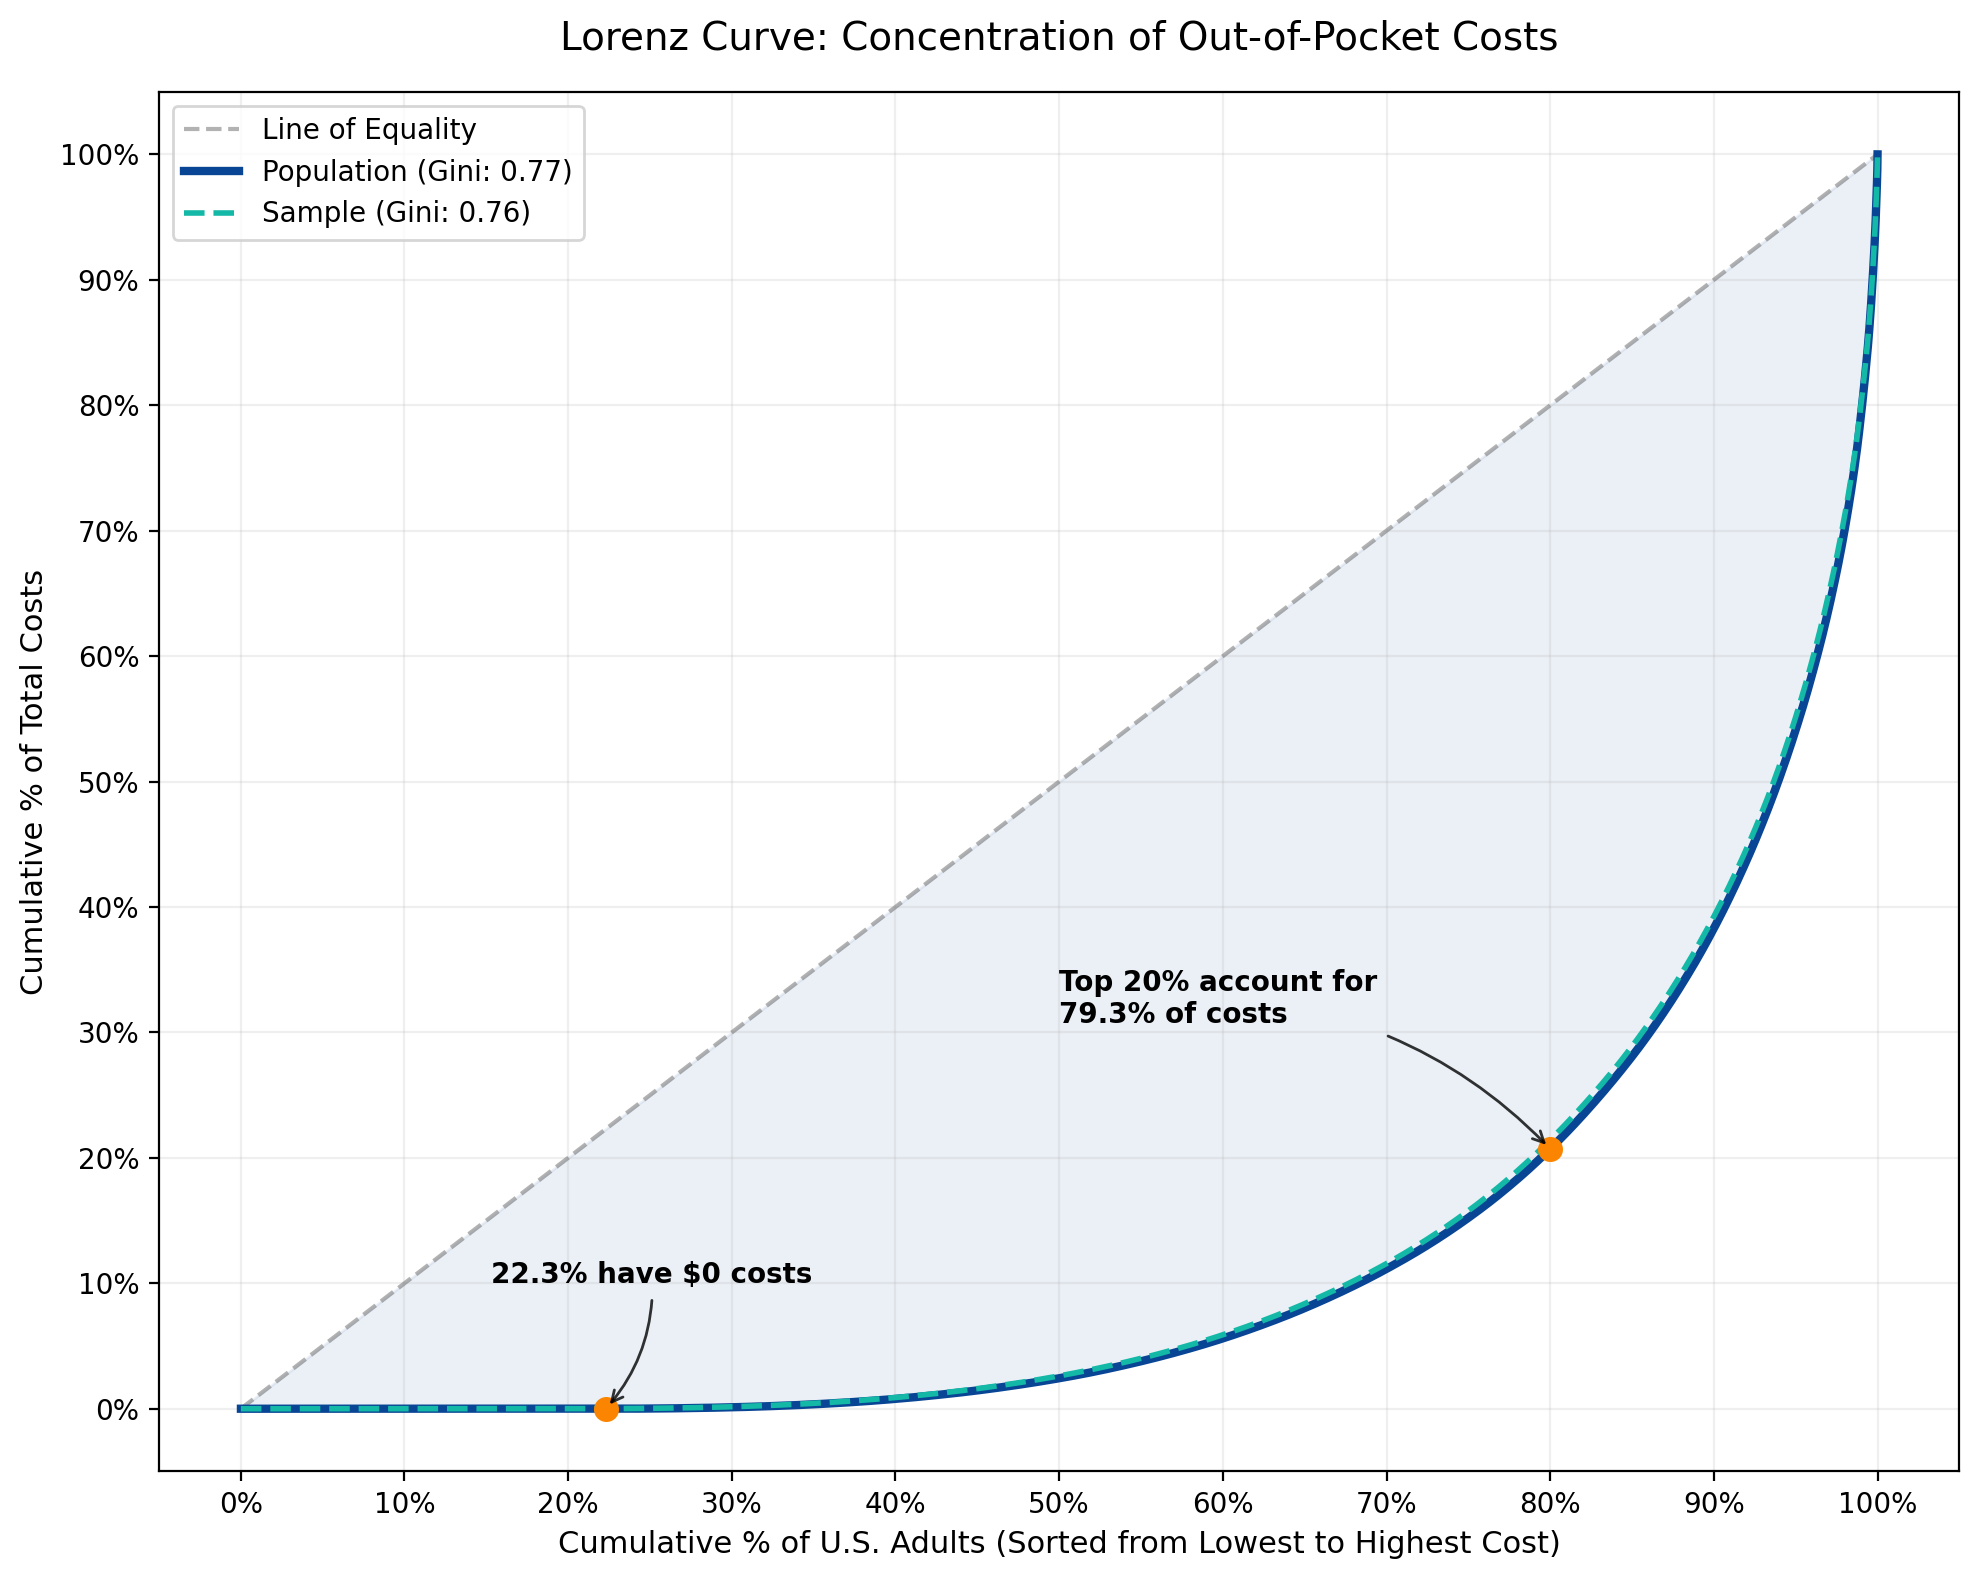
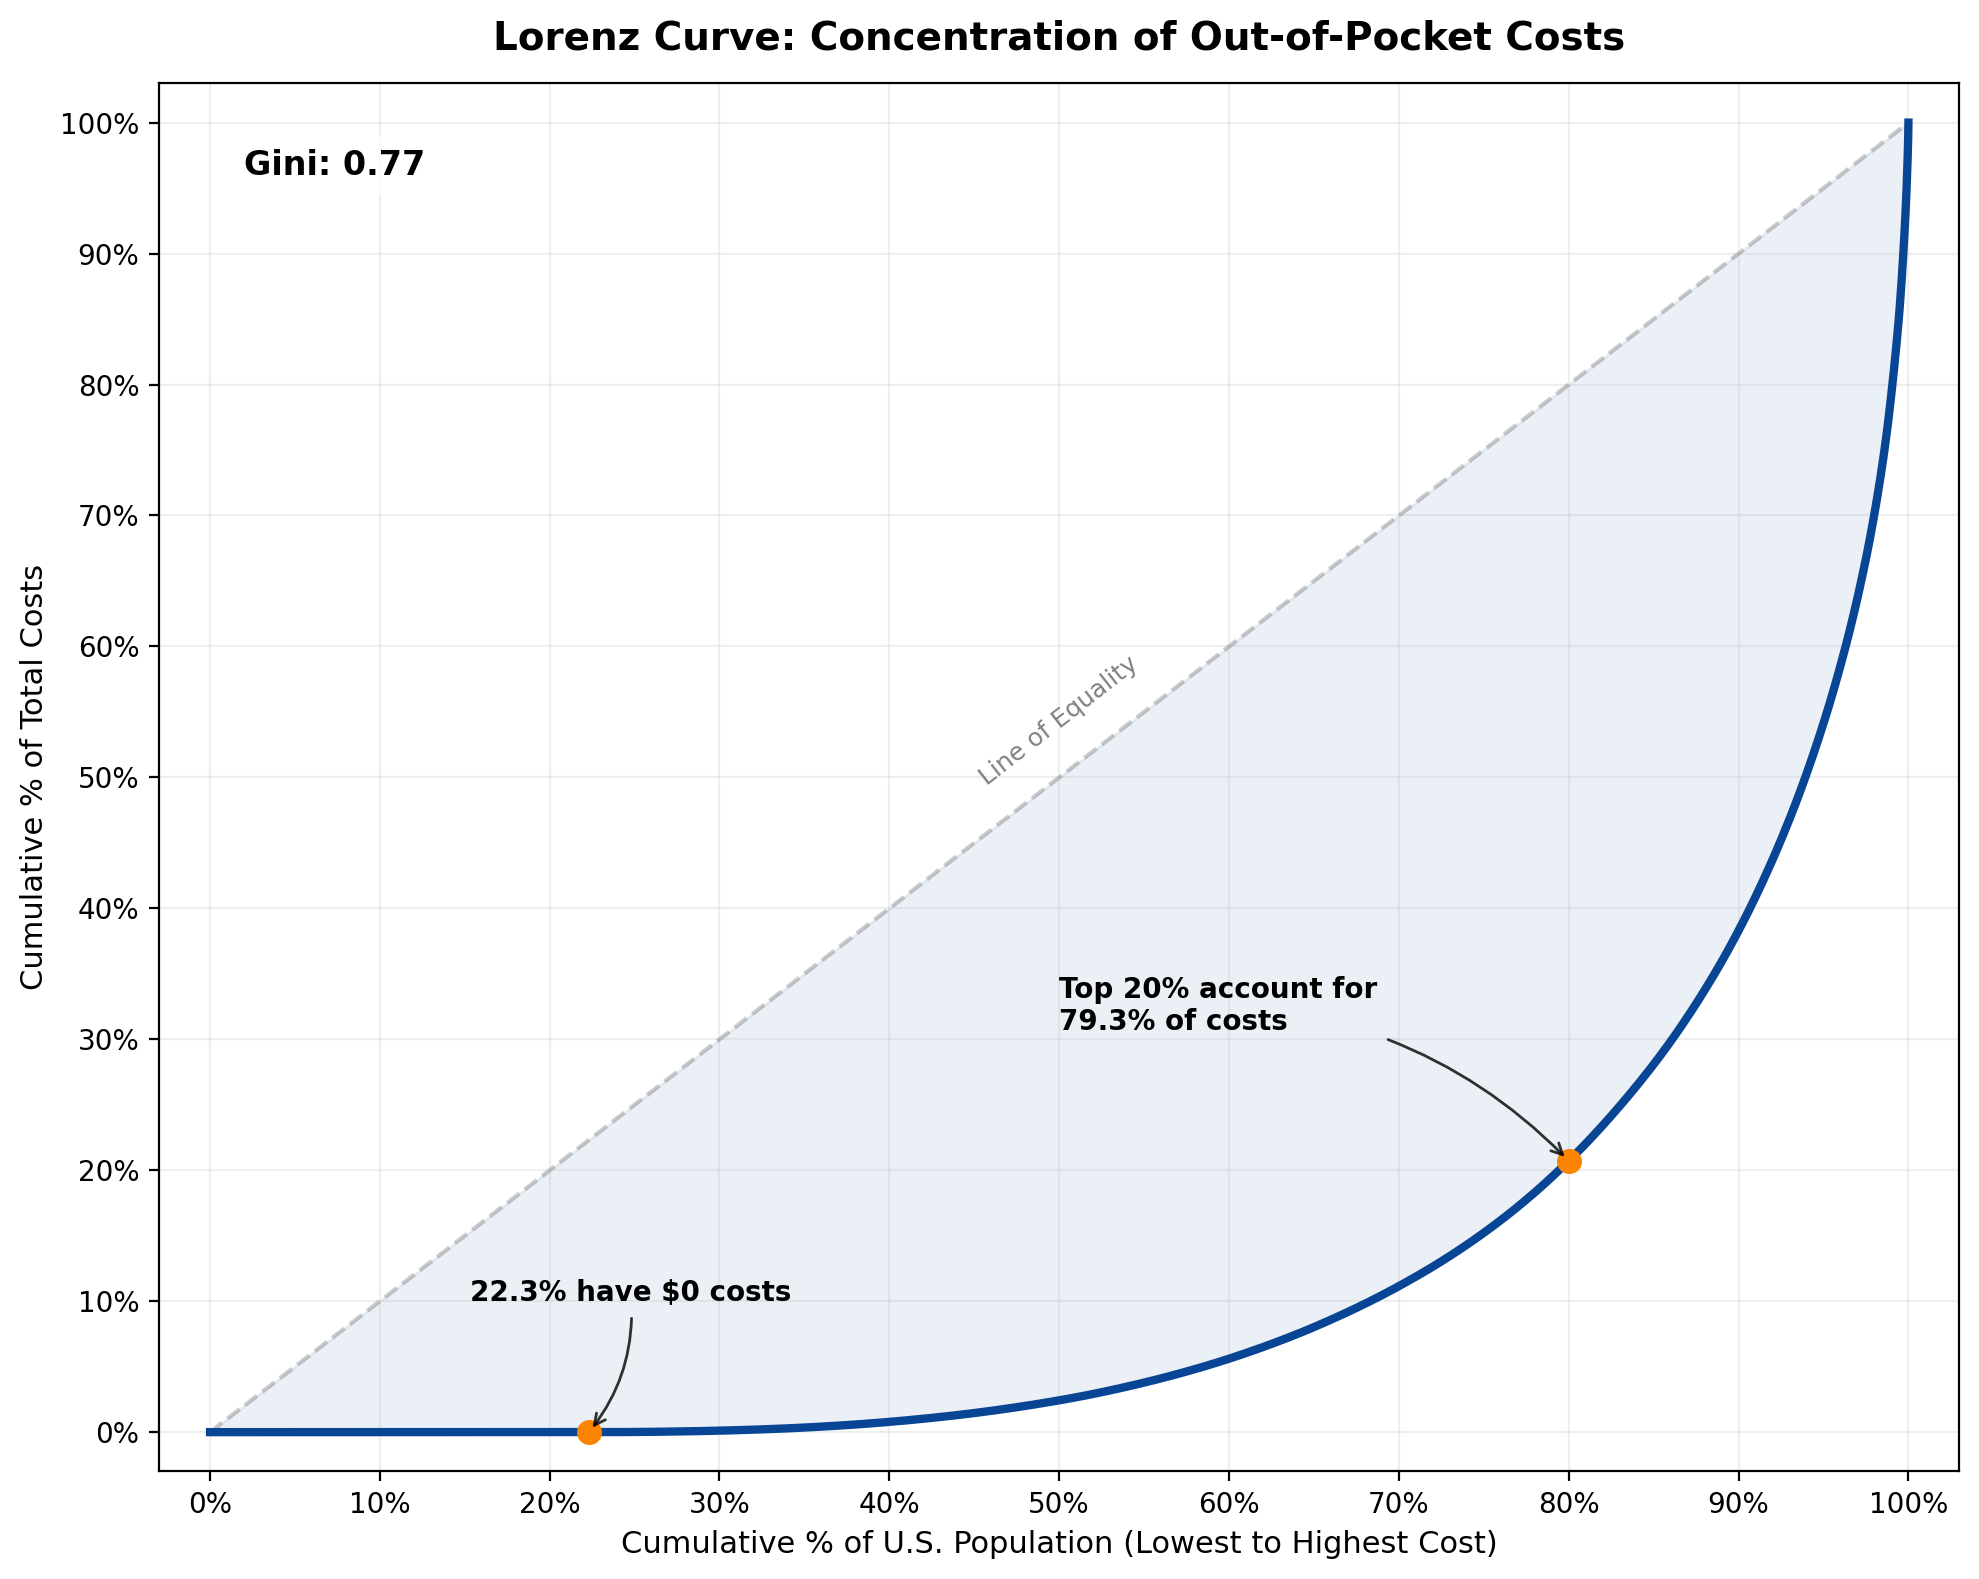
style(eda): remove Lorenz curve legend, label line of equality, place gini in text box and refine more formatting

diff --git a/notebooks/medical_cost_prediction.py b/notebooks/medical_cost_prediction.py
@@ -755,14 +755,17 @@ def plot_lorenz_curve(df, column, weights=None, save_to_file=None):
     # Plotting
     plt.figure(figsize=(10, 8))  
 
-    # Line of Equality
-    plt.plot([0, 100], [0, 100], linestyle="--", color="gray", label="Line of Equality", alpha=0.6)
+    # Line of Equality (with label)
+    plt.plot([0, 100], [0, 100], linestyle="--", color="gray", alpha=0.4)
+    plt.text(50, 49, "Line of Equality", rotation=38, color="gray", 
+             fontsize=9, ha="center", va="bottom")
 
     # Lorenz Curve
-    context = "U.S. Population" if weights else "Sample"
-    plt.plot(cum_pct, cum_costs, 
-             label=f"{context} (Gini: {gini:.2f})", 
-             color=POP_COLOR, lw=3)
+    plt.plot(cum_pct, cum_costs, color=POP_COLOR, lw=3)
+
+    # Add Gini Coefficient (in text box)
+    plt.text(2, 98, f"Gini: {gini:.2f}", fontsize=12, fontweight="bold",
+             va="top", bbox={"facecolor": "white", "alpha": 0.7, "edgecolor": "none", "boxstyle": "round,pad=0.4"})
 
     # Highlight Pareto Point (80/20 Rule) 
     idx_80 = (cum_pct - 80).abs().idxmin()
@@ -781,7 +784,7 @@ def plot_lorenz_curve(df, column, weights=None, save_to_file=None):
     if weights:
         zero_pct = (df.loc[zero_mask, weights].sum() / df[weights].sum()) * 100
     else:
-        zero_pct = np.sum(zero_mask) / len(df) * 100
+        zero_pct = len(df[df[column] == 0]) / len(df) * 100
         
     plt.plot(zero_pct, 0, "o", color="#fb8500", markersize=8)
     plt.annotate(f"{zero_pct:.1f}% have $0 costs", 
@@ -789,17 +792,18 @@ def plot_lorenz_curve(df, column, weights=None, save_to_file=None):
                  arrowprops={"arrowstyle": "->", "color": "black", "connectionstyle": "arc3,rad=-0.2", "alpha": 0.8},
                  fontsize=10, fontweight="bold")
 
-    # Fill for emphasis
+    # Fill for emphasis (The "Inequality Gap")
     plt.fill_between(cum_pct, cum_costs, cum_pct, color=POP_COLOR, alpha=0.08)
 
     # Customize
-    plt.title(f"Lorenz Curve: Concentration of {column}", fontsize=14, fontweight="bold", pad=12)
-    plt.xlabel(f"Cumulative % of {context} (Lowest to Highest Cost)", fontsize=11)
+    plt.title(f"Lorenz Curve: Concentration of {DISPLAY_LABELS.get(column, column)}", fontsize=14, fontweight="bold", pad=12)
+    plt.xlabel(f"Cumulative % of {'U.S. Population' if weights else 'Sample'} (Lowest to Highest Cost)", fontsize=11)
     plt.ylabel("Cumulative % of Total Costs", fontsize=11)
-    plt.legend(loc="upper left", fontsize=10)
     plt.grid(True, alpha=0.2)
     plt.xticks(range(0, 101, 10))
     plt.yticks(range(0, 101, 10))
+    plt.xlim(-3, 103)  # Adds space around the curve so no overlap with axis
+    plt.ylim(-3, 103)
     plt.gca().xaxis.set_major_formatter(mtick.PercentFormatter())
     plt.gca().yaxis.set_major_formatter(mtick.PercentFormatter())
 
@@ -809,6 +813,7 @@ def plot_lorenz_curve(df, column, weights=None, save_to_file=None):
     plt.show()
 
 
+# Plot population Lorenz curve of out-of-pocket costs
 plot_lorenz_curve(
     df, 
     column="TOTSLF23", 
